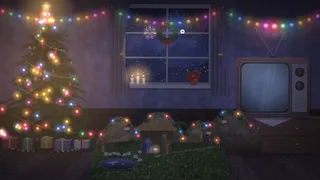
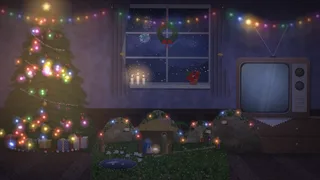
v161: árbol de Navidad frondoso con las ramas de antes (22 pisos, más ramas y agujas, sin cuerpo oscuro); la pólvora se ve afuera, detrás de travesaños, corona y cortinas; la habitación nunca se muestra estirada al cambiar de proporción; el pintado en tandas cortas
Claude-Session: https://claude.ai/code/session_0196GyQFunpP2YdAEnvtnEqf

diff --git a/index.html b/index.html
@@ -795,7 +795,7 @@
         <div class="seg" role="group" aria-label="Color del estrobo"><button data-strobe="bw">Blanco y negro</button><button data-strobe="lime">Lima</button><button data-strobe="palette">Paleta</button></div>
       </div>
       <a class="tt-link" href="https://www.tiktok.com/@sientelamusicaco" target="_blank" rel="noopener"><span class="tt-dot"></span><span>Síguenos en TikTok <small>@sientelamusicaco · canciones que se ven</small></span><span aria-hidden="true">↗</span></a>
-      <div id="verNote" style="text-align:center;font-size:11px;opacity:.5;margin-top:8px">Versión 160</div>
+      <div id="verNote" style="text-align:center;font-size:11px;opacity:.5;margin-top:8px">Versión 161</div>
     </div>
   </div>
   <div class="group">
@@ -6226,6 +6226,7 @@ function* navPaint(c, W, H, amb, out) {
     for (let k = 0; k < 6; k++) { const cy = gy + gh * (0.12 + rng() * 0.38), cx = gx + rng() * gw, n = 14 + (rng() * 10 | 0);
       for (let i = 0; i < n; i++) { const px = cx + (rng() - 0.5) * gw * 0.5, py = cy + (rng() - 0.5) * gh * 0.05, r = u * (14 + rng() * 26);
         navBlob(x, px, py, r * 1.6, night ? [70, 80, 130] : navMix(A.sky[2], [255, 255, 255], 0.5), night ? 0.22 : 0.5); navBlob(x, px, py + r * 0.4, r, night ? [90, 90, 140] : navMix(A.sky[2], [255, 200, 170], 0.4), night ? 0.15 : 0.35); } }
+    const skyShot = x.getImageData(gx | 0, gy | 0, Math.ceil(gw), Math.ceil(gh));   // cómo se ve el cielo solo (para saber después qué parte sigue a la vista)
     // las montañas, tres capas, con bruma entre ellas
     const ridge = (base, amp, f, ph) => X => base - amp * (0.55 * Math.sin(X * f + ph) + 0.3 * Math.sin(X * f * 2.3 + ph * 1.7) + 0.15 * Math.sin(X * f * 5.1 + ph * 0.3));
     for (let k = 0; k < 3; k++) { const yb = gy + gh * (0.6 + k * 0.1), R = ridge(yb, gh * (0.16 - k * 0.03), 6 / gw, k * 2.1 + 0.7);
@@ -6284,7 +6285,7 @@ function* navPaint(c, W, H, amb, out) {
       if (!night) { const eg = x.createLinearGradient(side < 0 ? x0 + cw : x0, 0, side < 0 ? x0 + cw * 0.6 : x0 + cw * 0.4, 0); eg.addColorStop(0, navC(lit, 0.45 * A.beam)); eg.addColorStop(1, navC(lit, 0)); x.fillStyle = eg; x.fillRect(x0, y0, cw, y1 - y0); }   // la luz que atraviesa la tela
       navTex(x, [x0 - u * 10, y0, cw + u * 20, y1 - y0], rng, 0.1, u * 7); x.restore();
       x.fillStyle = '#b08a40'; x.beginPath(); x.ellipse(side < 0 ? x0 + cw * 0.6 : x0 + cw * 0.5, tie, u * 14, u * 6, 0, 0, 7); x.fill(); }
-    out.win = { x: gx, y: gy, w: gw, h: gh }; }
+    out.win = { x: gx, y: gy, w: gw, h: gh }; out.skyShot = skyShot; }
   yield;
   // ---- el piso de tablas, en perspectiva, con vetas ----
   { const y0 = L.wallB, vp = L.vp, n = 16; x.save(); x.beginPath(); x.rect(0, y0, W, H - y0); x.clip();
@@ -6347,35 +6348,37 @@ function* navPaint(c, W, H, amb, out) {
     x.fillStyle = sk; x.beginPath(); x.ellipse(T.cx, T.base - u * 6, T.hw * 0.72, u * 26, 0, 0, 7); x.fill();
     x.fillStyle = 'rgba(255,255,255,.75)'; for (let k = 0; k < 36; k++) { const a = k / 36 * 6.283; x.beginPath(); x.arc(T.cx + Math.cos(a) * T.hw * 0.72, T.base - u * 6 + Math.sin(a) * u * 26, u * 6, 0, 7); x.fill(); }   // borde de motas blancas
     x.fillStyle = '#4a2c18'; x.fillRect(T.cx - u * 9, T.base - Ht * 0.12, u * 18, Ht * 0.1); }
-  // el volumen oscuro de adentro, por pisos (cada piso de ramas hace su sombra): así no se ve la pared entre ramas ni un cono liso
-  { const q = 0.125, sc = document.createElement('canvas'); sc.width = Math.ceil(W * q); sc.height = Math.ceil(H * q); const s_ = sc.getContext('2d'); s_.scale(q, q);   // pequeño y ampliado: queda suave sin el desenfoque caro
-    s_.fillStyle = night ? 'rgba(5,11,10,.9)' : 'rgba(10,26,18,.88)';
-    for (let i = 0; i < 12; i++) { const tt = i / 11, ty = T.top + Ht * (0.05 + 0.82 * Math.pow(tt, 1.25)), tw = T.hw * (0.12 + 0.88 * Math.pow(tt, 0.85)); s_.beginPath(); s_.ellipse(T.cx, ty + tw * 0.22, tw * 0.62, tw * 0.24 + u * 8, 0, 0, 7); s_.fill(); }
+  // una sombra interior pequeña y tenue (solo para que entre ramas no se vea la pared; la forma la dan las ramas)
+  { const q = 0.125, sc = document.createElement('canvas'); sc.width = Math.ceil(W * q); sc.height = Math.ceil(H * q); const s_ = sc.getContext('2d'); s_.scale(q, q);
+    s_.fillStyle = night ? 'rgba(5,11,10,.7)' : 'rgba(10,26,18,.62)';
+    for (let i = 0; i < 22; i++) { const tt = i / 21, ty = T.top + Ht * (0.05 + 0.82 * Math.pow(tt, 1.25)), tw = T.hw * (0.12 + 0.88 * Math.pow(tt, 0.85)); s_.beginPath(); s_.ellipse(T.cx, ty + tw * 0.2, tw * 0.45, tw * 0.2 + u * 6, 0, 0, 7); s_.fill(); }
     x.save(); x.imageSmoothingQuality = 'high'; x.drawImage(sc, 0, 0, W, H); x.restore(); }
   yield;
   const needleCols = night ? [[5, 14, 12], [8, 22, 17], [12, 30, 22], [17, 40, 28], [24, 52, 34], [34, 66, 42], [50, 84, 54], [160, 120, 80]]
     : amb === 'dia' ? [[12, 34, 24], [18, 48, 32], [26, 62, 40], [36, 80, 48], [50, 100, 58], [72, 122, 66], [110, 150, 84], [220, 210, 160]]
     : [[11, 29, 22], [17, 41, 29], [24, 56, 37], [33, 73, 44], [47, 93, 53], [74, 122, 63], [127, 154, 82], [184, 190, 112]];
-  const tiers = 13, tipPts = [];
+  const tiers = 22, tipPts = [];
   { const lw = u * 5; x.strokeStyle = night ? '#0c1a12' : '#1d3a24'; x.lineWidth = lw; x.lineCap = 'round'; x.beginPath(); x.moveTo(T.cx, T.top + Ht * 0.02); x.lineTo(T.cx, T.top + Ht * 0.2); x.stroke(); }   // la guía de la punta, bajo la estrella
   for (let i = 0; i < tiers; i++) {
-    const tt = i / (tiers - 1), ty = T.top + Ht * (0.05 + 0.82 * Math.pow(tt, 1.25)), tw = T.hw * (0.12 + 0.88 * Math.pow(tt, 0.85)), nS = 18 + i * 6;   // los pisos de arriba más juntos: la punta es una sola
+    const tt = i / (tiers - 1), ty = T.top + Ht * (0.05 + 0.82 * Math.pow(tt, 1.25)), tw = T.hw * (0.12 + 0.88 * Math.pow(tt, 0.85)), nS = 26 + i * 8;   // las ramas de antes, con más pisos y más ramas por piso: frondoso
     const spr = []; for (let s = 0; s < nS; s++) { const th = rng() * 6.283; spr.push({ th, z: Math.cos(th), r: tw * (0.5 + rng() * 0.62) }); } spr.sort((a, b) => a.z - b.z);
-    const B = needleCols.map(() => new Path2D()), twig = new Path2D();
+    let B = needleCols.map(() => new Path2D()), twig = new Path2D(), nsp = 0;
+    const flush = () => { x.strokeStyle = night ? '#0a1510' : '#163024'; x.lineWidth = u * 2.2; x.lineCap = 'round'; x.stroke(twig); x.lineWidth = u * 1.25; B.forEach((p, k) => { x.strokeStyle = navC(needleCols[k]); x.stroke(p); }); B = needleCols.map(() => new Path2D()); twig = new Path2D(); };
     for (const s of spr) {
+      if (++nsp % 70 === 0) { flush(); yield; }   // los pisos grandes, en tandas: el pintado nunca traba
       const sx = T.cx + Math.sin(s.th) * u * 6, sy = ty + rng() * u * 6, ex = T.cx + Math.sin(s.th) * s.r, ey = ty + s.r * (0.2 + rng() * 0.3) + s.z * u * 10, mx = (sx + ex) / 2, my = (sy + ey) / 2 - s.r * 0.08;
       twig.moveTo(sx, sy); twig.quadraticCurveTo(mx, my, ex, ey);
       const steps = Math.max(6, Math.round(s.r / (u * 9))), z01 = (s.z + 1) / 2, sideL = Math.sin(s.th);
       for (let k = 1; k <= steps; k++) { const t = 0.12 + 0.88 * k / steps, px = (1 - t) * (1 - t) * sx + 2 * (1 - t) * t * mx + t * t * ex, py = (1 - t) * (1 - t) * sy + 2 * (1 - t) * t * my + t * t * ey;
         const dx = 2 * (1 - t) * (mx - sx) + 2 * t * (ex - mx), dy = 2 * (1 - t) * (my - sy) + 2 * t * (ey - my), da = Math.atan2(dy, dx);
-        for (let q = 0; q < 3; q++) for (const sd of [-1, 1]) { const a = da + sd * (0.35 + rng() * 0.75), nl = u * (5 + rng() * 6) * (0.65 + 0.45 * t), up = Math.sin(a) < 0 ? 0.13 : -0.13,   // las agujas de arriba reciben luz; las de abajo, sombra
+        for (let q = 0; q < 4; q++) for (const sd of [-1, 1]) { const a = da + sd * (0.35 + rng() * 0.75), nl = u * (5 + rng() * 6) * (0.65 + 0.45 * t), up = Math.sin(a) < 0 ? 0.13 : -0.13,   // las agujas de arriba reciben luz; las de abajo, sombra
           l = 0.1 + 0.4 * z01 + 0.2 * t + up + (night ? 0.04 : 0.15) * sideL + (rng() - 0.5) * 0.22, bi = Math.max(0, Math.min(6, Math.floor(l * 7)));
-          const b2 = (!night && sideL > 0.5 && t > 0.8 && up > 0 && rng() < 0.12) ? 7 : bi, ox = px + Math.cos(da) * u * q * 2.2, oy = py + Math.sin(da) * u * q * 2.2, bend = sd * 0.25;
+          const b2 = (!night && sideL > 0.5 && t > 0.8 && up > 0 && rng() < 0.12) ? 7 : bi, ox = px + Math.cos(da) * u * q * 1.8, oy = py + Math.sin(da) * u * q * 1.8, bend = sd * 0.25;
           B[b2].moveTo(ox, oy); B[b2].quadraticCurveTo(ox + Math.cos(a - bend) * nl * 0.55, oy + Math.sin(a - bend) * nl * 0.55, ox + Math.cos(a) * nl, oy + Math.sin(a) * nl); }
         if (k === steps && s.z > -0.2) tipPts.push([ex, ey, s.z, i]);
         if (k === Math.round(steps * 0.6) && s.z > 0.1 && rng() < 0.5) tipPts.push([px, py, s.z * 0.8, i]); }
     }
-    x.strokeStyle = night ? '#120a06' : '#2a1a10'; x.lineWidth = u * 2.6; x.lineCap = 'round'; x.stroke(twig);
+    x.strokeStyle = night ? '#0a1510' : '#163024'; x.lineWidth = u * 2.2; x.lineCap = 'round'; x.stroke(twig);   // las ramitas en el verde oscuro de la sombra (en café se veían rayitas por el centro)
     x.lineWidth = u * 1.25; B.forEach((p, k) => { x.strokeStyle = navC(needleCols[k]); x.stroke(p); });
     yield;   // un piso por vez: el pintado no traba la animación
   }
@@ -6567,6 +6570,11 @@ function* navPaint(c, W, H, amb, out) {
   yield;
   // ---- los cuerpos de todos los bombillos (apagados: vidrio de color) ----
   for (const b of out.bulbs) navBulbBody(x, b, u, 0);
+  // ---- la máscara del cielo: solo donde se ve el cielo de afuera (sin travesaños, corona, cortinas, matera, velitas ni bombillos) ----
+  { const w = out.win, s0 = out.skyShot, now = x.getImageData(w.x | 0, w.y | 0, s0.width, s0.height), m = new ImageData(s0.width, s0.height);
+    for (let i = 0; i < s0.data.length; i += 4) { const d = Math.abs(s0.data[i] - now.data[i]) + Math.abs(s0.data[i + 1] - now.data[i + 1]) + Math.abs(s0.data[i + 2] - now.data[i + 2]); m.data[i + 3] = d < 6 ? 255 : 0; }
+    const mc = document.createElement('canvas'); mc.width = s0.width; mc.height = s0.height; mc.getContext('2d').putImageData(m, 0, 0); out.skyMask = mc; out.skyShot = null; }
+  yield;
   // ---- la luz de la habitación: clara junto a la ventana, en penumbra hacia las esquinas y el techo (como en las ilustraciones) ----
   { const w = out.win, cx = w.x + w.w / 2, cy = w.y + w.h * 0.7, R = Math.max(W, H) * 0.75;
     x.save(); x.globalCompositeOperation = 'multiply'; const sg = x.createRadialGradient(cx, cy, w.w * 0.4, cx, cy, R); sg.addColorStop(0, 'rgba(255,255,255,1)'); sg.addColorStop(1, night ? 'rgba(120,110,150,1)' : 'rgba(150,110,110,1)'); x.fillStyle = sg; x.fillRect(0, 0, W, H);
@@ -6589,7 +6597,8 @@ function drawNavidad(dt) {
   const key = [W, H, amb].join();
   if (N.key !== key && N.pre && N.pre.key === key) { N.job = { c: N.pre.c, out: N.pre.out, key }; N.key = key; N.pre = null; navDone(N); }   // ya pintada durante la cuenta atrás
   if (N.key !== key) { const c = document.createElement('canvas'); c.width = W; c.height = H; const out = { bulbs: [] }, job = navPaint(c, W, H, amb, out);
-    N.job = { c, out, job, key }; N.key = key; if (!N.bg) { while (!job.next().done); navDone(N); } }
+    N.job = { c, out, job, key }; N.key = key;
+    if (!N.bg || Math.abs(N.bg.width / N.bg.height - W / H) > 0.02) { while (!job.next().done); navDone(N); } }   // si cambia la proporción, se pinta de una vez: nunca se muestra la habitación estirada (deformada)
   if (N.job) { const t0 = performance.now(), jx = N.job.c.getContext('2d'); let r; do { r = N.job.job.next(); jx.getImageData(0, 0, 1, 1); } while (!r.done && performance.now() - t0 < 8); if (r.done) navDone(N); }
   // se pinta por partes, sin trabar (y se obliga al navegador a pintar cada parte en su momento: si no, lo deja todo para el primer cuadro
   // en que se usa la habitación nueva, y eso daba un tirón al empezar a grabar)
@@ -6627,13 +6636,17 @@ function navLive(dt, W, H, amb, A, night, P) {   // (W y H son las medidas del f
   if (night) {
     // la pólvora a lo lejos: con los golpes fuertes, un estallido en el cielo de la ventana
     if (pulse.on && N.go > 0.3 && (pulse.k > 0.6 || N.beats % 4 === 0) && N.fw.length < 4) { const r = Math.random; N.fw.push({ x: win.x + win.w * (0.15 + r() * 0.7), y: win.y + win.h * (0.12 + r() * 0.3), t: 0, c: NAV_COLS[(r() * 6) | 0], n: 34 + (r() * 20 | 0), s: 0.6 + r() * 0.6 }); }
-    ctx.save(); ctx.beginPath(); ctx.rect(win.x, win.y, win.w, win.h); ctx.clip(); ctx.globalCompositeOperation = 'lighter';
-    N.fw.forEach(f => { f.t += dt * 0.7; const R = win.w * 0.16 * f.s * Math.pow(f.t, 0.4), al = Math.max(0, 1 - f.t) * 0.9;
+    const mk = N.out.skyMask, fc = N.fwC || (N.fwC = document.createElement('canvas')); if (fc.width !== mk.width || fc.height !== mk.height) { fc.width = mk.width; fc.height = mk.height; }
+    const fx = fc.getContext('2d'); fx.setTransform(1, 0, 0, 1, 0, 0); fx.globalCompositeOperation = 'source-over'; fx.clearRect(0, 0, fc.width, fc.height); fx.translate(-(win.x | 0), -(win.y | 0)); fx.globalCompositeOperation = 'lighter';
+    { const ctx = fx;   // (se dibujan en el lienzo de la pólvora)
+    N.fw.forEach(f => { f.t += dt * 0.7; const R = win.w * 0.11 * f.s * Math.pow(f.t, 0.4), al = Math.max(0, 1 - f.t) * 0.9;
       ctx.lineCap = 'round'; for (let i = 0; i < f.n; i++) { const a = i / f.n * 6.283 + f.s + Math.sin(i * 7.3) * 0.08, Rr = R * (0.85 + 0.15 * Math.sin(i * 3.7)), X = f.x + Math.cos(a) * Rr, Y = f.y + Math.sin(a) * Rr + f.t * f.t * win.h * 0.08, X0 = f.x + Math.cos(a) * Rr * 0.15, Y0 = f.y + Math.sin(a) * Rr * 0.15 + f.t * f.t * win.h * 0.02;
         const lg = ctx.createLinearGradient(X0, Y0, X, Y); lg.addColorStop(0, navC(f.c, 0)); lg.addColorStop(1, navC(navMix(f.c, [255, 255, 255], 0.4), al)); ctx.strokeStyle = lg; ctx.lineWidth = u * 1.2; ctx.beginPath(); ctx.moveTo(X0, Y0); ctx.lineTo(X, Y); ctx.stroke();
         ctx.fillStyle = navC([255, 250, 230], al); ctx.beginPath(); ctx.arc(X, Y, u * 1.4, 0, 7); ctx.fill(); }   // con estela, como la pólvora de verdad
       { const hg = ctx.createRadialGradient(f.x, f.y, 0, f.x, f.y, R * 1.4); hg.addColorStop(0, navC(f.c, al * 0.18)); hg.addColorStop(1, navC(f.c, 0)); ctx.fillStyle = hg; ctx.fillRect(f.x - R * 1.4, f.y - R * 1.4, R * 2.8, R * 2.8); } });   // un halo que se desvanece, sin borde
-    N.fw = N.fw.filter(f => f.t < 1); ctx.restore();
+    }
+    fx.setTransform(1, 0, 0, 1, 0, 0); fx.globalCompositeOperation = 'destination-in'; fx.drawImage(mk, 0, 0);   // solo en el cielo de afuera: detrás de travesaños, corona y cortinas
+    N.fw = N.fw.filter(f => f.t < 1); ctx.save(); ctx.globalCompositeOperation = 'lighter'; ctx.globalAlpha = 0.9; ctx.drawImage(fc, win.x | 0, win.y | 0); ctx.restore();
   }
   // los bombillos: la guirnalda en secuencias, el árbol y el pesebre titilan con su parte del sonido
   const bands = N.bl || (N.bl = new Float32Array(24)); for (let i = 0; i < 24; i++) { const k0 = Math.floor(i / 24 * BANDS * 0.9), v = Math.min(1.2, bandX(k0, k0 + 3) * 1.3); bands[i] += (v - bands[i]) * (1 - Math.pow(v > bands[i] ? 0.001 : 0.06, dt)); }

diff --git a/sw.js b/sw.js
@@ -1,7 +1,7 @@
 // Permite instalar la página como app y abrirla sin conexión.
 // La página se pide primero a la red (así siempre llega la última versión) y, si no hay
 // conexión, se usa la copia guardada. Las imágenes se sirven desde la copia y se renuevan por detrás.
-const CACHE = 'siente-v160';
+const CACHE = 'siente-v161';
 const CORE = ['./', 'index.html', 'manifest.webmanifest', 'icons/icon.svg', 'icons/icon-192.png', 'icons/icon-512.png'];
 
 self.addEventListener('install', e => {
